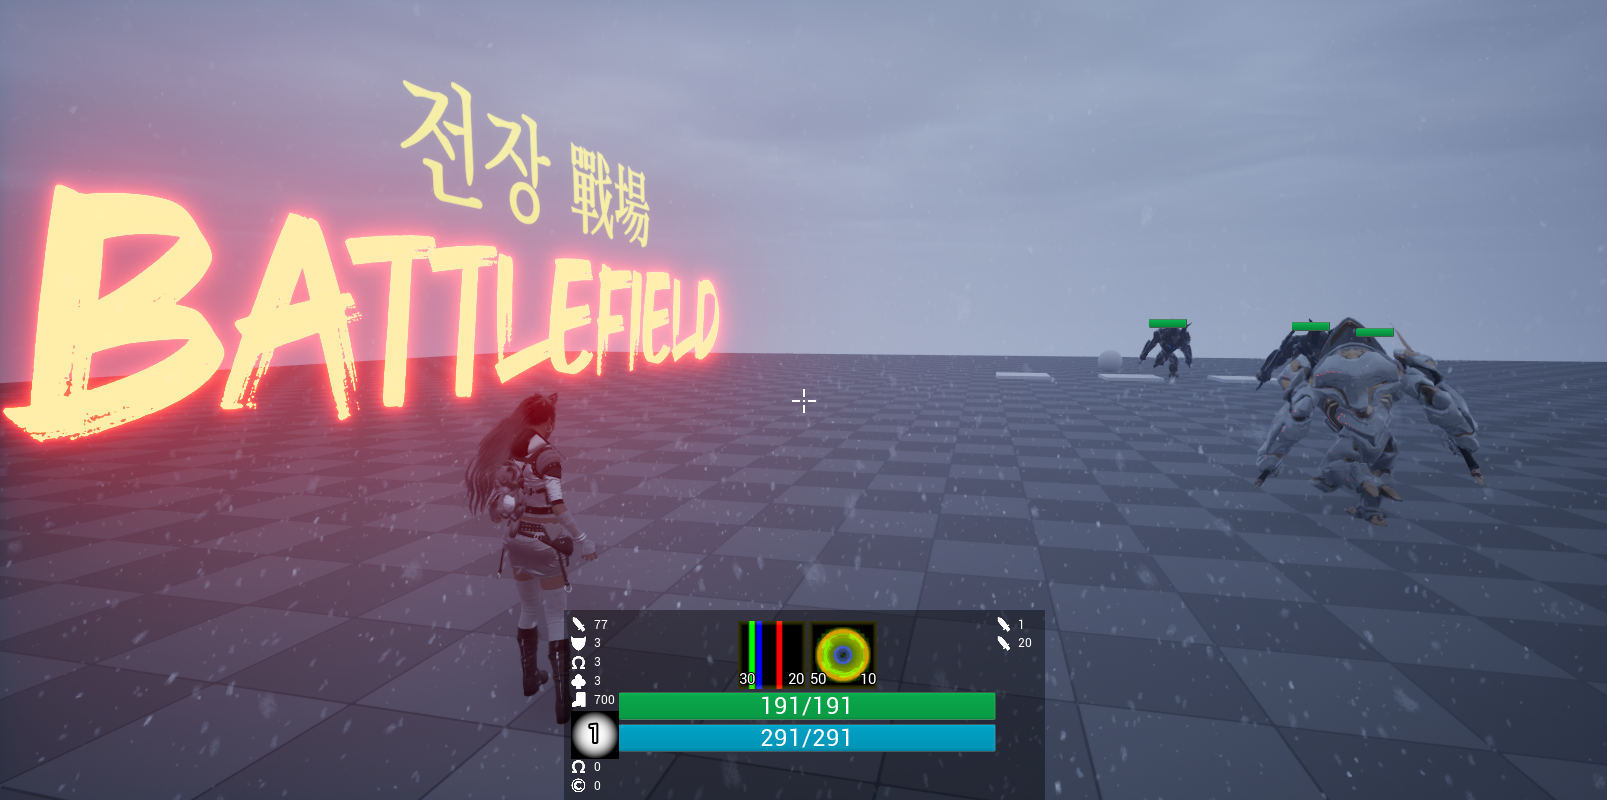
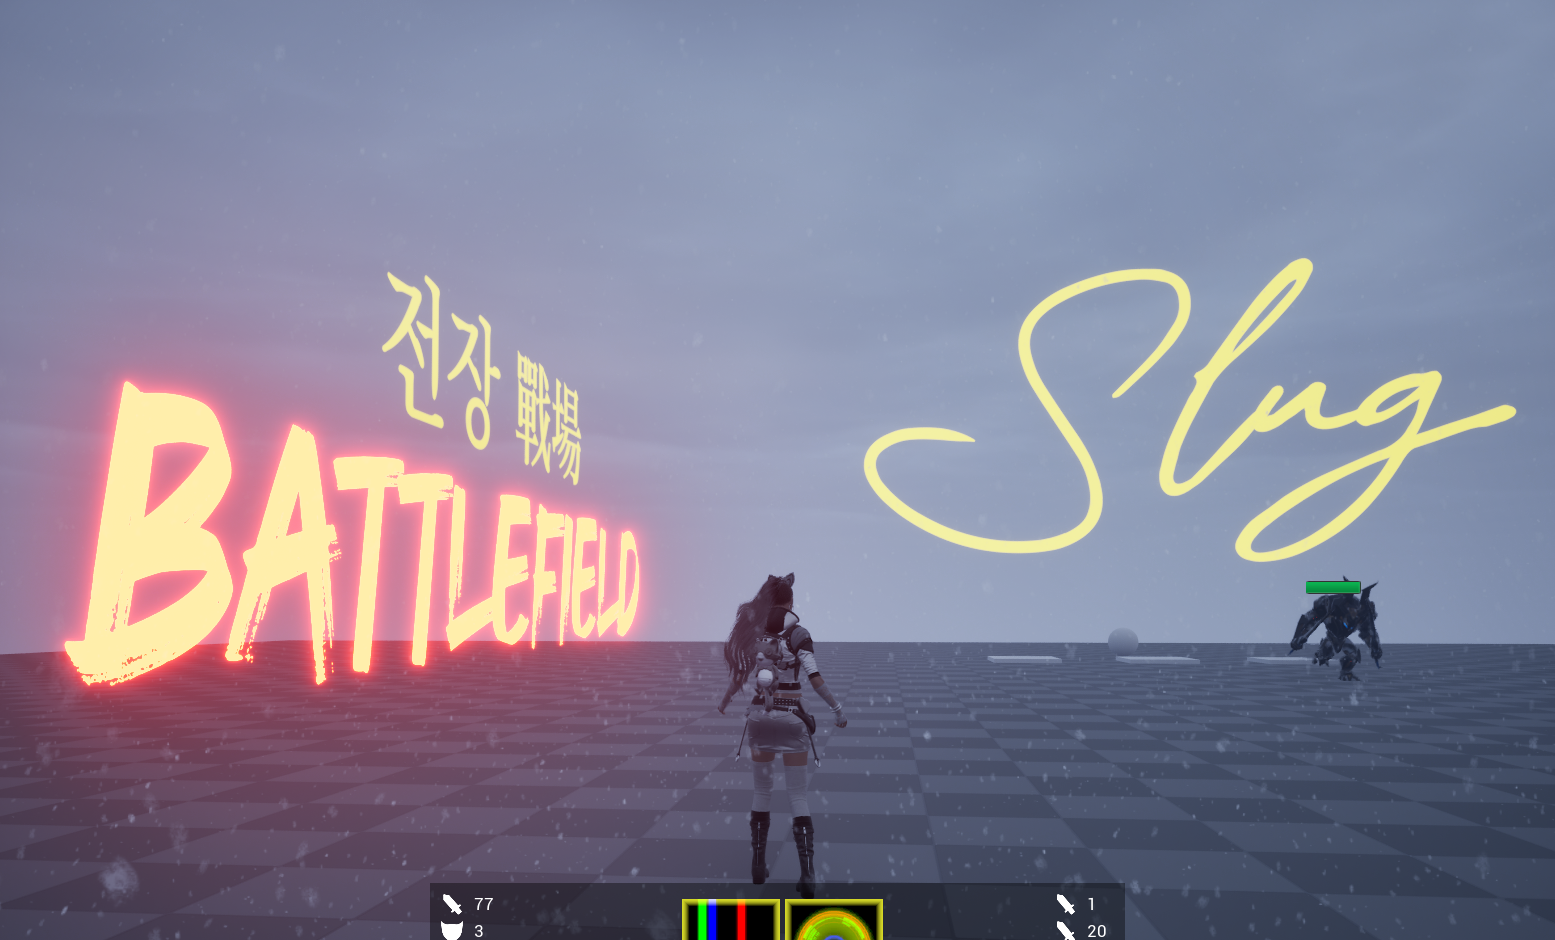
...

diff --git a/content/posts/slug/index.ko.md b/content/posts/slug/index.ko.md
@@ -1,12 +1,120 @@
 ---
 title: "슬러그 플러그인 제작기"
 date: 2026-09-01
-description: "Slug for 3D text rendering"
-tags: ["Unreal Engine", "Graphics", "Text Rendering"]
+description: "3D 텍스트 렌더링을 위한 슬러그"
+tags: ["언리얼 엔진", "그래픽스", "텍스트 렌더링"]
 categories: []
 cover: "resources/cover.png "
 ---
 
-Translation in progress. Sorry!
+# 동기와 목표
 
-우측 상단에서 언어 전환 후 확인해주세요.
+언리얼 엔진에서 3D 텍스트를 렌더링하는 두 가지 방법을 소개하겠다.
+
+첫 번째는 월드에 `UTextRenderActor`를 배치하는 방법이다. 내부적으로는 `UTextRenderComponent`가 실제 렌더링을 담당하며, 폰트 에셋으로부터 텍스트 지오메트리를 생성한다. 사용 가능한 폰트 워크플로우 중 하나는 오프라인으로 캐시된 글리프를 사용하는데, 이는 글리프들이 미리 폰트 아틀라스 텍스처에 래스터화되어 있다는 뜻이다. 여기서 문제가 생긴다:
+
+![0](resources/0.png)
+
+벽에 있는 발광 텍스트를 보라. 디테일이 뭉개지고, 얇은 글리프는 제대로 렌더링되지 않는다. 참을 수 없다. 그럴듯한 결과를 얻으려면 폰트 에셋의 알 수 없는 옵션들을 이리저리 만지고, 폰트를 다시 임포트하고, 결과를 확인하고, "괜찮아" 보일 때까지 반복해야 한다. 임기응변적이고 시간을 잡아먹는 과정이며, 레벨을 디자인하면서 높은 비주얼 퀄리티를 유지하려 할 때는 특히 골치 아프다.
+
+다른 방법으로는, 월드에 `UWidgetComponent`를 그리는 방법이 있다. 이 역시 글리프를 미리 래스터화함에도 어째선지 품질이 더 나아 보이지만, 그 나름의 문제들을 안고 있다. `UWidgetComponent`는 Slate/UMG 위젯을 렌더 타겟에 렌더링한 뒤, 그 렌더 타겟을 월드 안의 서피스로 표시한다. 리드로우 설정에 따라 다르지만, 이 위젯은 매 프레임 렌더링될 수도 있다. 상호작용도 하지 않는 단순한 텍스트 조각을 위해서는, 개인적으로 이건 과잉이라고 생각한다. 텍스트 조각이 많다면, 위젯마다 별도의 렌더 타겟을 유지해야 하므로 이 방식은 더욱 매력이 없어지는데, 그 이유는 뒤에서 다루겠다.
+
+문제가 보이는가? 그 중간이 없다. 그래서 직접 3D 텍스트 플러그인을 만들어보기로 했다. 목표는 다음과 같다: **아티스트가 텍스트를 그냥 가져다 쓸 수 있을 만큼 빠르면서도, 품질은 그대로 유지하는 것.**
+
+
+
+# 사전 지식
+
+타이포그래피와 텍스트 렌더링에 대한 기본적인 이해가 있어야 지금부터 하는 이야기를 온전히 이해할 수 있을 것이다. 컴퓨터 그래픽스에 대한 친숙함도 도움이 된다.
+
+
+
+# 슬러그(Slug)
+
+*Better Software Conference 2026*에서 *슬러그(Slug)*에 대해 알게 되었다. *슬러그*는 미리 래스터화된 글리프 텍스처에 의존하는 대신, 렌더링 시점에 베지어(Bézier) 곡선으로부터 글리프 윤곽선을 직접 평가하는 GPU 기반 텍스트 렌더링 기법이다. 덕분에 텍스트가 크게 확대되거나 비스듬한 각도에서 보여도 세밀한 디테일이 보존된다.
+
+슬러그는 *Ubisoft*, *Blizzard*를 비롯한 주요 게임 스튜디오들이 상업적으로 사용해왔다. 2026년에 라이선스 상태가 바뀌면서 이 프로젝트에 이 기술을 쓸 수 있게 되었다. 글리프 아틀라스를 미리 구워두고 그게 어떤 크기와 각도에서도 버텨주길 바라는 대신, 렌더링 도중 원본 벡터 윤곽선을 직접 평가할 수 있다. 완벽하다.
+
+<img src="resources/tunnel.jpg">
+
+
+
+# LLM
+
+언리얼 엔진은 실로 거대한 코드베이스이고, 그 렌더링 파이프라인을 제대로 파헤쳐본 적이 없었다. 이제는 언리얼 엔진 소스 코드를 더 깊이 이해할 때가 됐다고 느꼈고, 시작하는 데 있어 LLM이 의외로 큰 도움이 됐다. LLM은 비결정적이고 추측성이 강한 특성 때문에 프로그래밍에 있어서는 되도록 의존하지 않으려 하는 편이다. 하지만 이번에는 그저 시작점이 필요했을 뿐이었고, 그 용도로는 유용했다. 이번만큼은 LLM에게 공을 돌려야겠다.
+
+
+
+# 게임에서 렌더러까지
+
+월드에 3D 텍스처 액터를 그리고 싶었기 때문에, 포스트 프로세싱 이후에 처리되는 글로벌 셰이더나 RDG보다는 버텍스 팩토리(vertex factory) 쪽이 나아 보였다.
+
+퍼즐 조각들을 하나씩 살펴보자.
+
+`FStaticMeshVertexBuffers`는 `PositionVertexBuffer`, `ColorVertexBuffer` 같은 버텍스 속성 버퍼들을 SOA 형태로 캡슐화하며, 각 버텍스 버퍼는 RHI 리소스를 캡슐화하고 관리하는 `FRenderResource`를 상속한다. 생소한 분들을 위해 설명하자면, RHI는 *Render Hardware Interface*의 줄임말로, Direct3D 11, 12, Vulkan 같은 그래픽스 API 위에 놓인 하나의 레이어일 뿐이다. 필자를 탓하지 말길 바란다. 원래 그런 것이다.
+
+`VertexFactory`는 CPU 쪽에서 지정한 버텍스 레이아웃을 따라 GPU에 버텍스 버퍼를 할당한다. 대부분의 메쉬 컴포넌트는 `FLocalVertexFactory`를 사용한다. `LocalVertex`는 위치, 텍스처 좌표, 색상, 탄젠트를 속성으로 가진다. *Eric Lengyel*이 직접 GitHub에 올려둔 샘플 셰이더 코드가 요구하는 속성을 모두 갖추고 있으므로 이것을 사용하기로 했다.
+
+글리프 하나당 버텍스 4개, 인덱스 6개. 별다른 건 없다. UV0는 글리프 자체의 디자인 공간 좌표를 담고, UV1은 머티리얼이 달리 받을 방법이 없는 두 숫자, 즉 이 글리프의 컨트롤 포인트가 커브 텍스처의 어디서부터 시작하는지, 그리고 몇 개나 있는지를 몰래 실어 나른다. `FDynamicMeshVertex`는 이미 네 개의 채널을 갖고 있다. 깔끔하다.
+
+이 모든 게 `FPrimitiveSceneProxy`를 상속하는 `FSlugTextSceneProxy`로 하나로 묶인다. 렌더러에게 그릴 것을 건네주는 역할이다. 버텍스 버퍼, 인덱스 버퍼, 버텍스 팩토리, 그리고 컴포넌트의 머티리얼 슬롯에 무엇이 들어있든 그로부터 한 번 계산된 `FMaterialRelevance`를 소유한다. 한 번 구워지고 나면 이 중 어떤 것도 다시 바뀌지 않는다. 그 이후로 유일하게 손이 닿는 부분은 커브 텍스처뿐이고, 그것도 이전에 본 적 없는 글리프가 나타날 때뿐이다.
+
+
+
+# 폰트 에셋에서 픽셀까지
+
+폰트 폴백은 코드포인트마다 폴백 체인을 따라가며 가장 먼저 해결된다. HarfBuzz에는 폴백이라는 개념 자체가 없기 때문이다. 한 문단 안에서 같은 폰트 페이스로 떨어지는 연속된 코드포인트들은 하나의 런(run)으로 묶이는데, 이 덕분에 합자(ligature)나 한글 조합이 가능해진다. 런을 셰이핑하면 줄 너비에 대한 정보가 전혀 없는 상태에서도, 각 글리프의 인덱스, 클러스터, 어드밴스/오프셋을 곧바로 얻을 수 있다.
+
+줄바꿈은 별개의 단계다. ICU가 미리 찾아둔 줄바꿈 후보 지점을 이용해, 글리프 스트림을 어디서 끊을지를 결정한다. 그 이후에야 레이아웃이 줄/어드밴스 데이터를 넘겨줘서 버텍스 버퍼 안의 각 글리프 쿼드를 만들 수 있다.
+
+FreeType은 각 글리프의 윤곽선을 뽑아낸다. *슬러그*에는 2차 곡선만 입력할 수 있으므로, 3차 곡선 구간은 두 접선을 교차시켜 그 교차점을 새로운 단일 컨트롤 포인트로 삼는 방식으로 들어오는 도중에 근사된다. 이 코드는 FreeType의 구조체에 콜백으로 등록되어 `FT_Outline_Deceompose` 도중 호출된다. 서로 다른 글리프 각각은, 폰트와 글리프 인덱스로 키가 매겨진 채, 어디서 얼마나 자주 등장하든 상관없이 윤곽선 컨트롤 포인트를 정확히 한 번만 얻는다. 여기서 나오는 모든 컨트롤 포인트는 하나의 공유된 float 텍스처에 순서대로 추가된다.
+
+픽셀이 셰이딩될 때까지는 이 커브 연산이 아직 전혀 실행되지 않은 상태다. 머티리얼에 Custom 노드를 통해 삽입된 `SlugCoverage.ush`는, 버텍스 셰이더가 이 글리프가 몇 개의 컨트롤 포인트를 가지고 있다고 말했는지를 읽어들이고, 커버되는 모든 픽셀에 대해 그 커브들을 따라가며 — 캐시된 근사치가 아니라 진짜, 정확한 윤곽선으로부터 — 해당 픽셀이 글리프 안쪽인지 바깥쪽인지를 판단한다. 아틀라스도, 구워둔 비트맵도 없이, 그저 모든 픽셀, 매 프레임마다 커브 연산이 있을 뿐이다.
+
+
+
+# 성능
+
+100개의 *슬러그* 텍스트 박스와, 같은 텍스트를 표시하는 `UWidgetComponent`가 붙은 액터 100개를 비교해봤다. 둘 다 브러시 스트로크 디테일이 있는 제법 복잡한 폰트를 사용했는데, 이는 커브 수가 늘어날수록 *슬러그*에 비해 `UWidgetComponent`가 유리해지는 조건이다. `UWidgetComponent`는 그저 글리프 아틀라스를 샘플링할 뿐이기 때문이다.
+
+결과는 `슬러그`의 승리였다. 평균 20 FPS 이상 앞섰다. 연산량이 꽤 무거워 보여서 처음엔 반신반의했지만, 여기에는 이야기가 더 있었다.
+
+`UWidgetComponent`에서 흥미로웠던 점 하나는, 카메라가 뒤로 물러나면서 화면상의 텍스트가 아무리 작아져도 성능에는 사실상 차이가 없었다는 것이다. 알고 보니 샘플링과 래스터화 비용이 핵심이 아니었다.
+
+<div class="img-row">
+<figure><img src="resources/NoDifference_1.png"><figcaption>48 FPS</figcaption></figure>
+<figure><img src="resources/NoDifference_2.png"><figcaption>48 FPS</figcaption></figure>
+</div>
+
+그래픽스 큐는 컴퓨트 큐가 작업을 끝내길 기다리고 있었고, 그게 끝나야 비로소 해당 렌더 타겟을 클리어하고, 글리프 아틀라스를 샘플링하고, 렌더 타겟에 그릴 수 있었다. 렌더 타겟을 바인딩하고, 클리어하고, 쓰는 작업은 병렬화로 없앨 수 없는 작업들이다. 각각이 하나의 독립된 패스다. 이게 *N*개나 있었고, 전부 순차적으로 처리됐으며, 그것이 바로 "진짜" 비용이었다.
+
+![PIX_UWidgetComponent](resources/PIX_UWidgetComponent.png)
+
+반면 *슬러그* 구현은 병렬화가 매우 잘 된다. 또한 커버리지가 픽셀 단위로 계산되기 때문에, 연산 비용은 텍스트가 화면에서 차지하는 면적에 따라 달라진다. 다시 말해, 화면에서 작게 보이는 텍스트는 마땅히 그래야 하듯 극히 적은 연산만 필요로 한다.
+
+![PIX_Slug](resources/PIX_Slug.png)
+
+쐐기를 박기 위해, 비교적 단순한 폰트인 *Roboto*로도 테스트해봤다. *슬러그*는 확실한 120 FPS로 돌았고, `UWidgetComponent`는 이전과 같은 성능에 머물렀다.
+
+<div class="img-row">
+<figure><img src="resources/Roboto.png"><figcaption>확실한 120 FPS</figcaption></figure>
+</div>
+
+
+# 마무리
+
+슬러그의 성능은 폰트의 복잡도에 크게 좌우되므로, 디테일이 많은 폰트를 다룬다면 먼저 성능을 확인해볼 가치가 있다. 일반적인 용도라면 그냥 개선된 `TextRenderActor`를 만드는 편이 나을 수도 있겠지만, 이야기가 샜다.
+
+그래도 *슬러그*가 지금 있는 선택지들 중 가장 좋은 품질을 낸다는 점에는 확신이 있다. 그러니 그냥 큰 망치로 문제를 두들겨 부수고 끝내자. 다만 복잡한 폰트는 조심할 것.
+
+결국 이건 HarfBuzz와 FreeType을 둘러싼 약간의 수고와, 이런저런 데이터 처리, 그리고 알 수 없는 언리얼 엔진 코드 뭉치였을 뿐이다. 여기서 진짜 건질 만한 지식은 역시 알고리즘 그 자체라고 생각한다.
+
+그렇다 해도, 이 기저의 기술은 필자의 것이 아니다. 모든 공은 *Eric Lengyel*에게 돌아간다. 필자는 그저 그의 논문을 바탕으로 퍼즐 조각들을 조립했을 뿐이다.
+
+![1](resources/1.png)
+
+# 참고 자료
+
+- Eric Lengyel, [*GPU-Centered Font Rendering Directly from Glyph Outlines*](https://jcgt.org/published/0006/02/02/paper.pdf), Journal of Computer Graphics Techniques, Vol. 6, No. 2, 2017.
+- [EricLengyel/Slug](https://github.com/EricLengyel/Slug) — 슬러그 알고리즘의 레퍼런스 버텍스/픽셀 셰이더.
+- Eric Lengyel, [*A Decade of Slug*](https://terathon.com/blog/decade-slug.html) — 슬러그를 무료로 사용할 수 있게 만든 2026년 특허 포기 선언.

diff --git a/content/posts/slug/index.md b/content/posts/slug/index.md
@@ -7,10 +7,6 @@ categories: []
 cover: "resources/cover.png "
 ---
 
-![Draft](resources/construction.png)
-This is a draft.
-
-
 # Motivation and Goals
 
 Let me introduce two particular ways to render 3D text in Unreal Engine. 
@@ -23,7 +19,7 @@ Just look at the emissive text on the wall. Details are lost, and thin glyphs do
 
 Alternatively, you can draw `UWidgetComponent` in the world. The quality seems better for some reason, even though it also pre-rasterizes glyphs, but that comes with its own set of problems. A `UWidgetComponent` renders a Slate/UMG widget to a render target, which is then displayed as a surface in the world. Depending on its redraw settings, the widget may be rendered every frame. In my opinion, that's overkill, for a simple non-interactable piece of text. If you have many pieces of text, maintaining a separate render target for each widget can makes the approach even less attractive, and we'll get into why later.
 
-See the problem? There is no in-between. So, I decided to roll my own 3D text plugin, and here are my goals: **preserve the quality while making it fast enough for artists to just drop in the text and call it a day.**
+See the problem? There is no in-between. So, I decided to roll my own 3D text plugin, and here's my goal: **preserve the quality while making it fast enough for artists to just drop in the text and call it a day.**
 
 
 
@@ -39,7 +35,7 @@ I learned about *Slug* at the *Better Software Conference 2026*. *Slug* is a GPU
 
 Slug has been used commercially by major game studios, including *Ubisoft* and *Blizzard*. Its licensing status changed in 2026, making it possible for me to use the technology for this project. Instead of baking a glyph atlas ahead of time and hoping it survives whatever size and angle the text happens to be viewed at, I can evaluate the original vector outlines directly during rendering. Perfect.
 
-<img src="resources/tunnel.jpg" style="width: 50%;">
+<img src="resources/tunnel.jpg">
 
 
 
@@ -79,7 +75,7 @@ None of that curve math has actually run yet by the time a pixel gets shaded. `S
 
 # Performance
 
-Stress test time! I compared 100 *Slug* text boxes against 100 actors with a `UWidgetComponent` attached, each displaying the same text. Both use a fairly complex font with brush-stroke details, which gives `UWidgetComponent` an advantage over *Slug* as the number of curves increases, while `UWidgetComponent` itself is simply sampling the glyph atlas.
+I compared 100 *Slug* text boxes against 100 actors with a `UWidgetComponent` attached, each displaying the same text. Both use a fairly complex font with brush-stroke details, which gives `UWidgetComponent` an advantage over *Slug* as the number of curves increases, while `UWidgetComponent` itself is simply sampling the glyph atlas.
 
 The result was a win for a `Slug`, averaging more than 20 FPS. I was skeptical at first, since the computation seemed fairly heavy, but there was more to the story. 
 
@@ -115,12 +111,12 @@ After all, it was just handful of elbow grease around HarfBuzz and FreeType, a b
 
 That said, none of the underlying technique is mine. All credit for that goes to *Eric Lengyel*. I simply worked it out from his paper and assembled the puzzle pieces. 
 
-![1](resources/1.png)
+<div class="img-row">
+<figure><img src="resources/1.png"><figcaption>The quality is impeccable.</figcaption></figure>
+</div>
 
 # References
 
 - Eric Lengyel, [*GPU-Centered Font Rendering Directly from Glyph Outlines*](https://jcgt.org/published/0006/02/02/paper.pdf), Journal of Computer Graphics Techniques, Vol. 6, No. 2, 2017.
 - [EricLengyel/Slug](https://github.com/EricLengyel/Slug) — reference vertex/pixel shaders for the Slug algorithm.
 - Eric Lengyel, [*A Decade of Slug*](https://terathon.com/blog/decade-slug.html) — the 2026 patent disclaimer that made Slug free to use.
-- [HarfBuzz](https://harfbuzz.github.io/) — text shaping engine.
-- [FreeType](https://freetype.org/) — font outline/glyph rasterization library.
